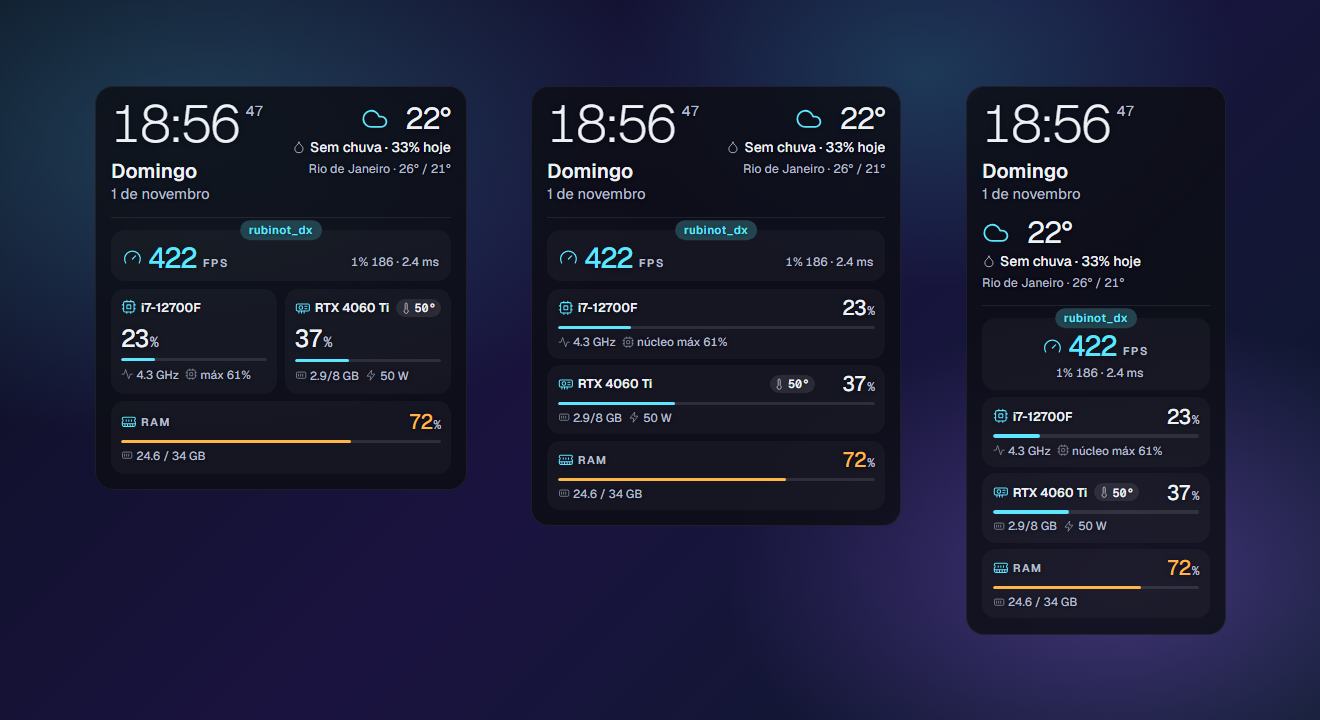
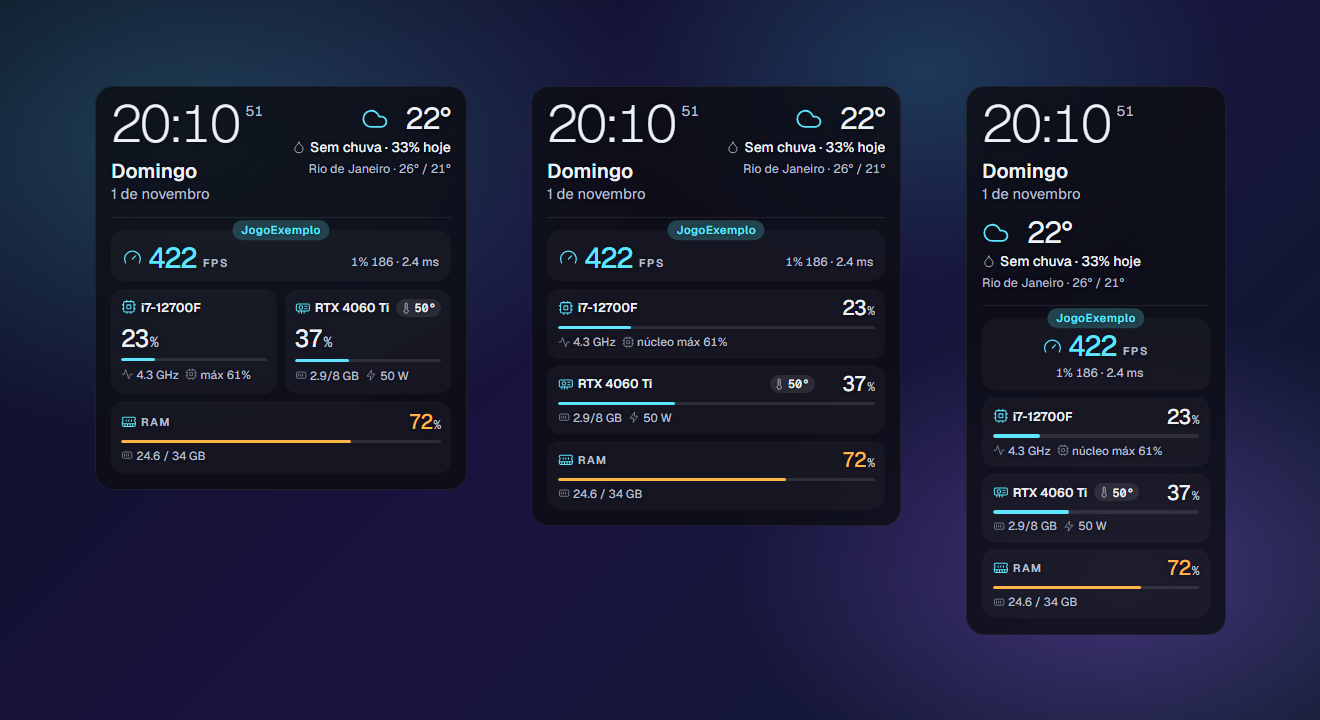
Imagens do README com jogo de exemplo e GIF da gravação de vídeo
- Nome do jogo nas imagens trocado por JogoExemplo
- GIF mostrando a gravação de vídeo do começo ao fim, no lugar do print estático

diff --git a/README.md b/README.md
@@ -112,7 +112,7 @@ Se você também vive entre o código e o jogo, ou só quer entender de verdade 
 
 ### Gravação de vídeo
 
-![Gravação de vídeo com os botões de som do PC e microfone](docs/images/gravacao.png)
+![Gravando uma área da tela: escolher a área, ligar o microfone, gravar, parar e colar](docs/images/gravacao.gif)
 
 - Escolha a área e grave com o **som do PC** e o **microfone**, ligando e desligando cada um na hora.
 - Uma barra flutuante mostra o tempo e deixa pausar, continuar e parar.
